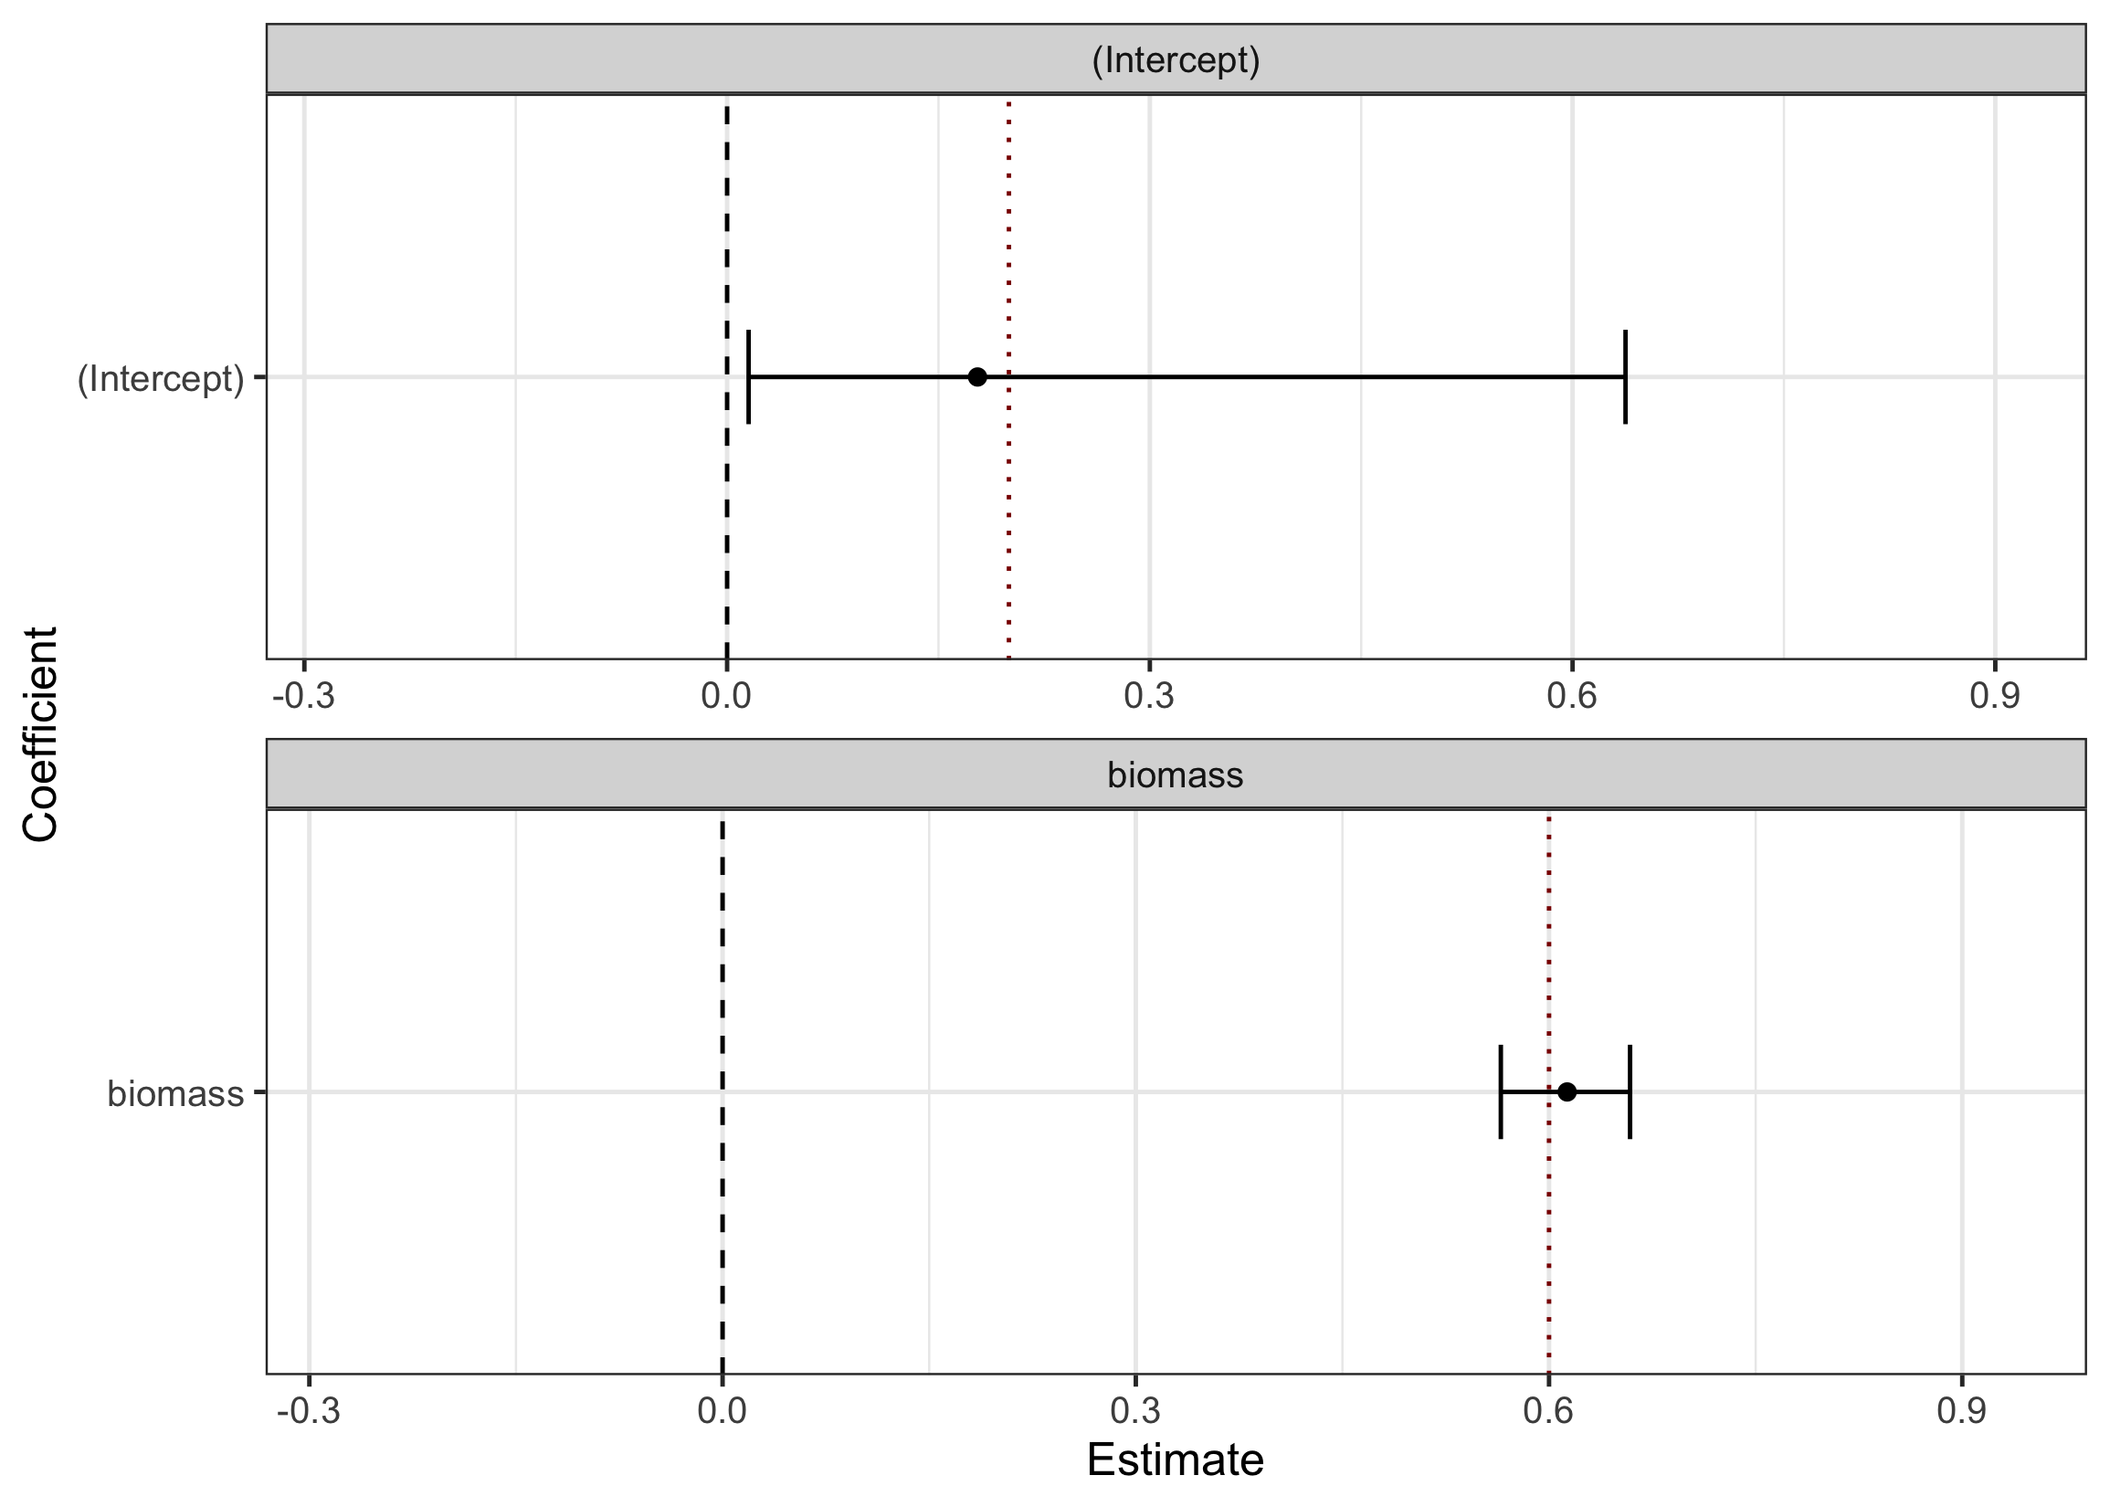
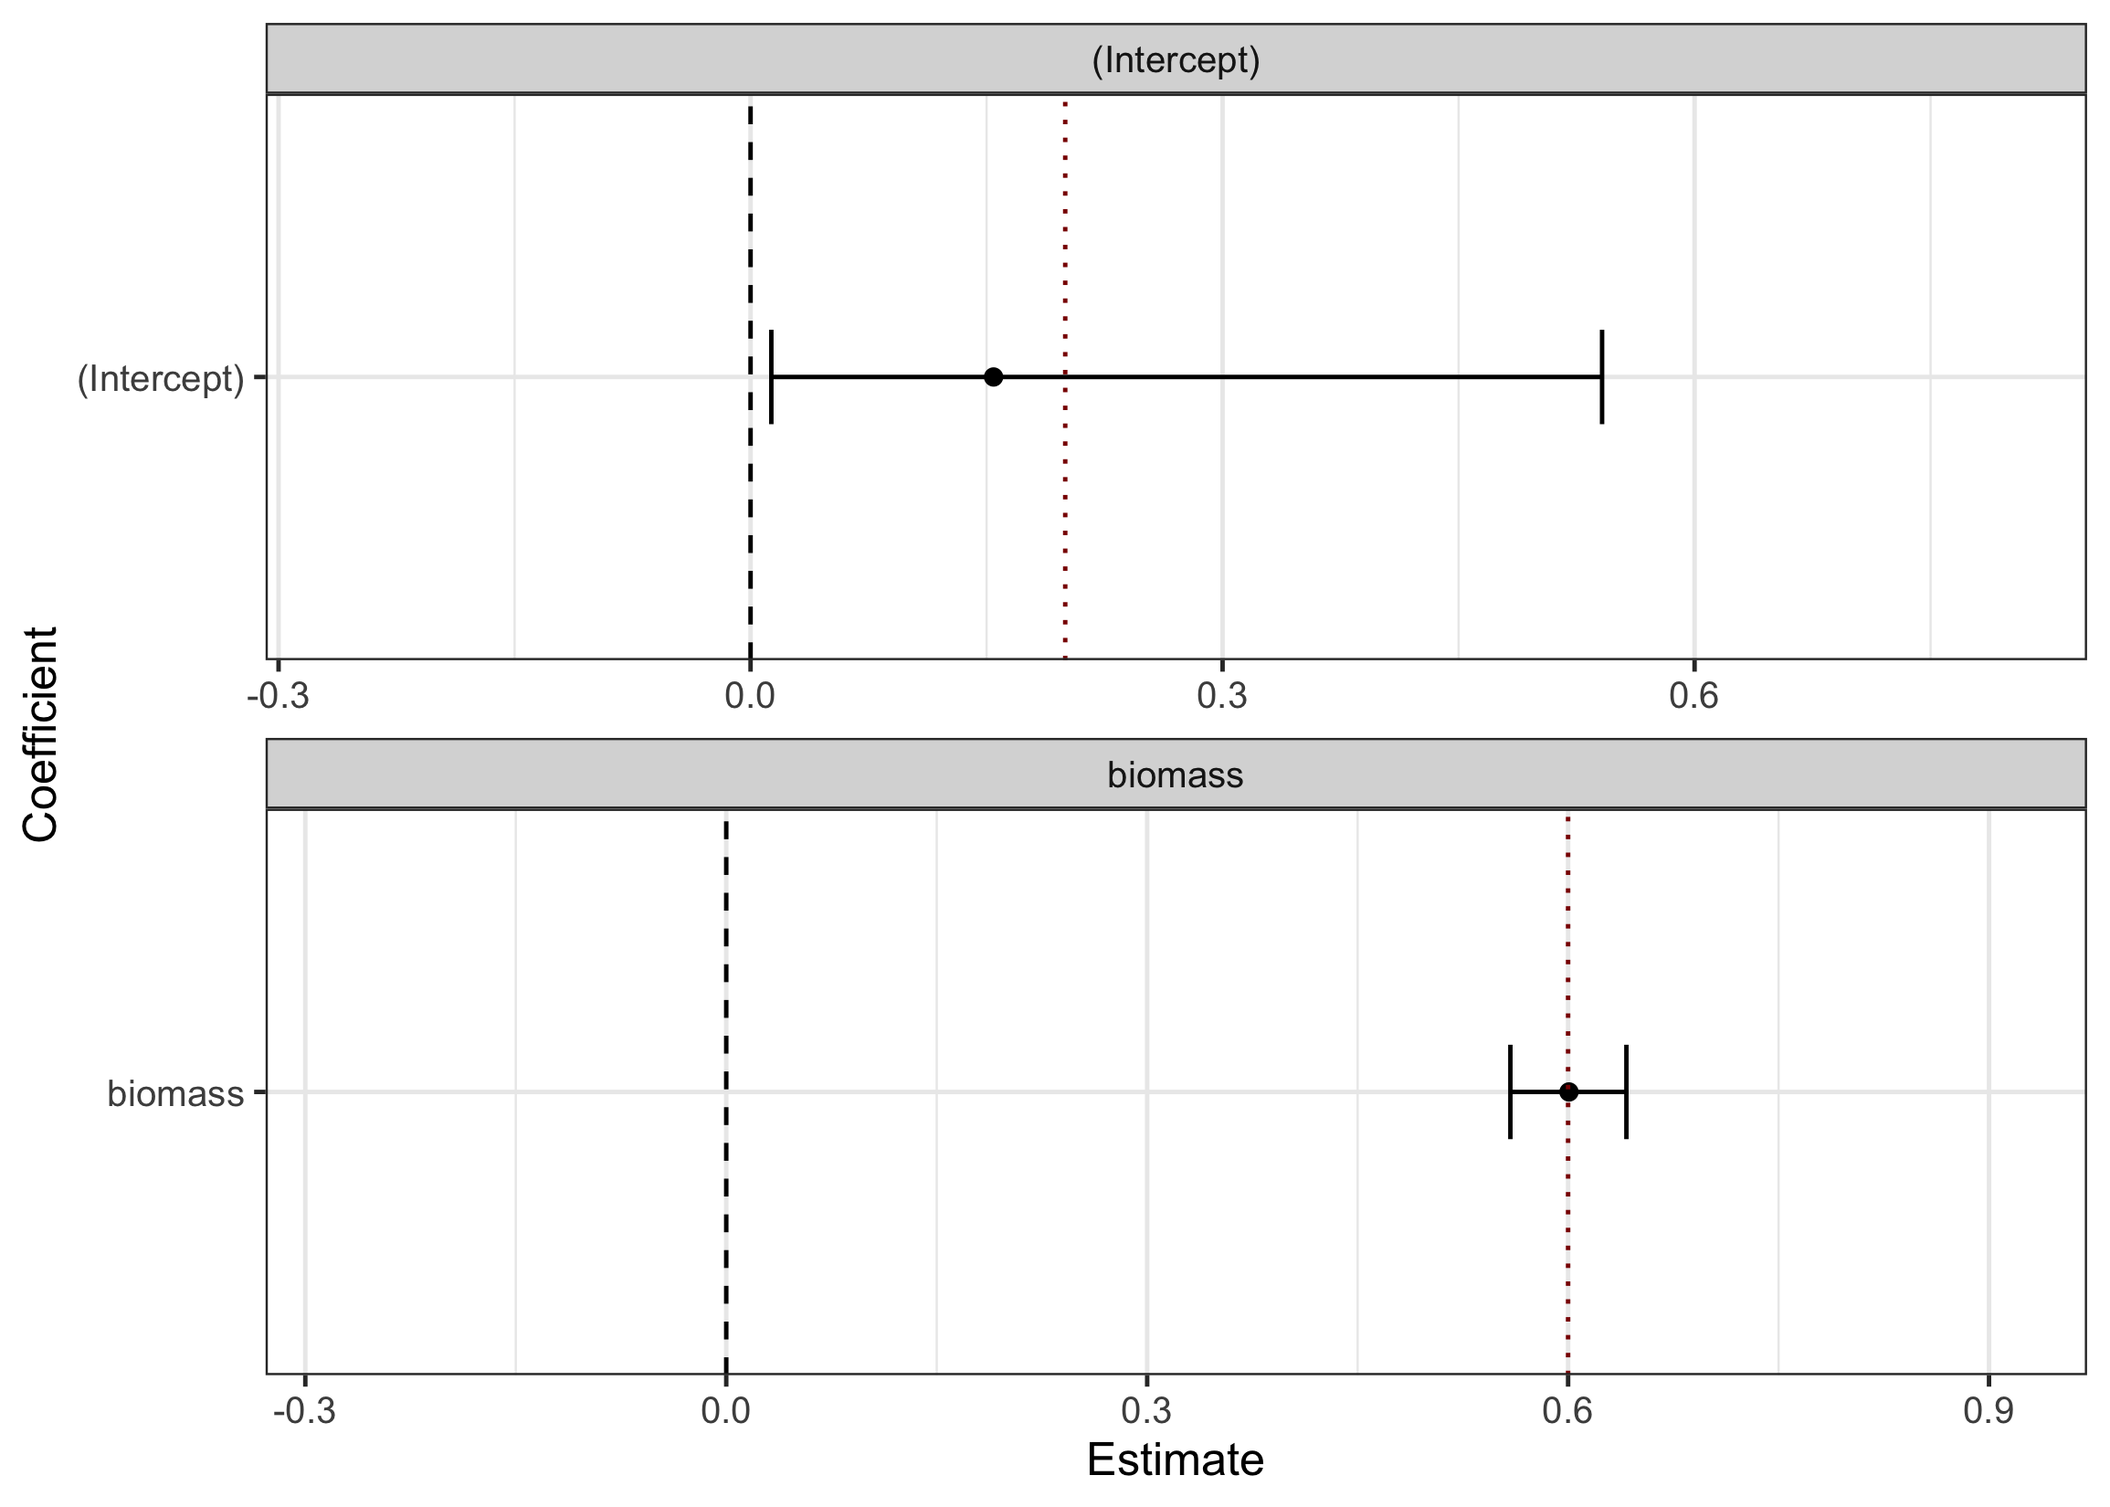
Update README

diff --git a/README.md b/README.md
@@ -108,7 +108,9 @@ simulated concentration measurements. For this, we must first define a
 model of the measurement noise. In our simulated data, we assumed a dPCR
 assay with the following parameters:
 
-- total number of partitions: 25’000
+- maximum number of partitions: 30’000
+- partition loss (invalid partitions): average: 12%, stdev: 5% points,
+  max: 50%
 - concentration conversion factor : 1.73e-5 (gc/partition for 1
   concentration unit in original sample)
 - pre-PCR coefficient of variation: 10%
@@ -119,8 +121,8 @@ characteristics using the helper function `noise_dPCR()`:
 
 ``` r
 noise_model <- noise_dPCR(
-          max_partitions_prior_lower = 10000, # partition number of chip between 10'000 and 30'000
-          max_partitions_prior_upper = 30000,
+          max_partitions_prior_lower = 10000, # partition number of chip between 10'000 and 40'000
+          max_partitions_prior_upper = 40000,
           partition_loss_mean_prior_lower = 0.05, # expected share of invalid partitions between 5% and 30%
           partition_loss_mean_prior_upper = 0.3,
           partition_loss_variation_prior_lower = 0.5, # broad prior on variation of share of invalid partitions
@@ -135,7 +137,7 @@ noise_model <- noise_dPCR(
 To summarize, we have made the following assumptions:
 
 - we don’t know what chip was used, but expect it to have between 10’000
-  and 30’000 partitions
+  and 40’000 partitions
 - the average share of invalid partitions per dPCR run could be
   somewhere between 5% and 30%
 - we don’t know how much the share of invalid partitions varies between
@@ -168,9 +170,9 @@ fitted_model <- dPCRfit(
         prior_coefficients = c(0,1), # standard normal prior for the regression coefficients
         measurements = concentration_measurements(
           id_col = "sample_id", # name of the column with the sample id
-          replicate_col = "replicate_id", # name of the column with the biological replicate id
+          replicate_col = "bio_replicate_id", # name of the column with the biological replicate id
           concentration_col = "concentration", # name of the column with the concentration measurements
-          n_averaged_col = "n_technical_reps" # name of the column with the number of technical replicates per sample
+          n_averaged_col = "n_technical_reps" # name of the column with the number of technical replicates per biological replicate
         ),
         noise = noise_model, # the dPCR noise model we defined above
         nondetect = nondetect_dPCR() # also model non-detects from dPCR
@@ -182,58 +184,58 @@ fitted_model <- dPCRfit(
 #> Chain 2 Iteration:    1 / 2000 [  0%]  (Warmup) 
 #> Chain 3 Iteration:    1 / 2000 [  0%]  (Warmup) 
 #> Chain 4 Iteration:    1 / 2000 [  0%]  (Warmup) 
-#> Chain 4 Iteration:  200 / 2000 [ 10%]  (Warmup) 
-#> Chain 2 Iteration:  200 / 2000 [ 10%]  (Warmup) 
 #> Chain 3 Iteration:  200 / 2000 [ 10%]  (Warmup) 
-#> Chain 1 Iteration:  200 / 2000 [ 10%]  (Warmup) 
-#> Chain 4 Iteration:  400 / 2000 [ 20%]  (Warmup) 
-#> Chain 2 Iteration:  400 / 2000 [ 20%]  (Warmup) 
+#> Chain 2 Iteration:  200 / 2000 [ 10%]  (Warmup) 
+#> Chain 4 Iteration:  200 / 2000 [ 10%]  (Warmup) 
 #> Chain 3 Iteration:  400 / 2000 [ 20%]  (Warmup) 
+#> Chain 1 Iteration:  200 / 2000 [ 10%]  (Warmup) 
+#> Chain 2 Iteration:  400 / 2000 [ 20%]  (Warmup) 
 #> Chain 1 Iteration:  400 / 2000 [ 20%]  (Warmup) 
-#> Chain 2 Iteration:  600 / 2000 [ 30%]  (Warmup) 
-#> Chain 4 Iteration:  600 / 2000 [ 30%]  (Warmup) 
-#> Chain 1 Iteration:  600 / 2000 [ 30%]  (Warmup) 
 #> Chain 3 Iteration:  600 / 2000 [ 30%]  (Warmup) 
-#> Chain 2 Iteration:  800 / 2000 [ 40%]  (Warmup) 
-#> Chain 1 Iteration:  800 / 2000 [ 40%]  (Warmup) 
-#> Chain 4 Iteration:  800 / 2000 [ 40%]  (Warmup) 
+#> Chain 4 Iteration:  400 / 2000 [ 20%]  (Warmup) 
+#> Chain 2 Iteration:  600 / 2000 [ 30%]  (Warmup) 
+#> Chain 1 Iteration:  600 / 2000 [ 30%]  (Warmup) 
 #> Chain 3 Iteration:  800 / 2000 [ 40%]  (Warmup) 
+#> Chain 1 Iteration:  800 / 2000 [ 40%]  (Warmup) 
+#> Chain 2 Iteration:  800 / 2000 [ 40%]  (Warmup) 
+#> Chain 4 Iteration:  600 / 2000 [ 30%]  (Warmup) 
+#> Chain 4 Iteration:  800 / 2000 [ 40%]  (Warmup) 
+#> Chain 3 Iteration: 1000 / 2000 [ 50%]  (Warmup) 
+#> Chain 3 Iteration: 1001 / 2000 [ 50%]  (Sampling) 
 #> Chain 1 Iteration: 1000 / 2000 [ 50%]  (Warmup) 
 #> Chain 1 Iteration: 1001 / 2000 [ 50%]  (Sampling) 
 #> Chain 2 Iteration: 1000 / 2000 [ 50%]  (Warmup) 
 #> Chain 2 Iteration: 1001 / 2000 [ 50%]  (Sampling) 
+#> Chain 3 Iteration: 1200 / 2000 [ 60%]  (Sampling) 
 #> Chain 4 Iteration: 1000 / 2000 [ 50%]  (Warmup) 
 #> Chain 4 Iteration: 1001 / 2000 [ 50%]  (Sampling) 
-#> Chain 3 Iteration: 1000 / 2000 [ 50%]  (Warmup) 
-#> Chain 3 Iteration: 1001 / 2000 [ 50%]  (Sampling) 
 #> Chain 1 Iteration: 1200 / 2000 [ 60%]  (Sampling) 
-#> Chain 2 Iteration: 1200 / 2000 [ 60%]  (Sampling) 
-#> Chain 4 Iteration: 1200 / 2000 [ 60%]  (Sampling) 
-#> Chain 3 Iteration: 1200 / 2000 [ 60%]  (Sampling) 
-#> Chain 1 Iteration: 1400 / 2000 [ 70%]  (Sampling) 
-#> Chain 2 Iteration: 1400 / 2000 [ 70%]  (Sampling) 
-#> Chain 4 Iteration: 1400 / 2000 [ 70%]  (Sampling) 
 #> Chain 3 Iteration: 1400 / 2000 [ 70%]  (Sampling) 
-#> Chain 1 Iteration: 1600 / 2000 [ 80%]  (Sampling) 
-#> Chain 2 Iteration: 1600 / 2000 [ 80%]  (Sampling) 
-#> Chain 4 Iteration: 1600 / 2000 [ 80%]  (Sampling) 
+#> Chain 4 Iteration: 1200 / 2000 [ 60%]  (Sampling) 
+#> Chain 1 Iteration: 1400 / 2000 [ 70%]  (Sampling) 
+#> Chain 2 Iteration: 1200 / 2000 [ 60%]  (Sampling) 
 #> Chain 3 Iteration: 1600 / 2000 [ 80%]  (Sampling) 
-#> Chain 1 Iteration: 1800 / 2000 [ 90%]  (Sampling) 
-#> Chain 2 Iteration: 1800 / 2000 [ 90%]  (Sampling) 
-#> Chain 4 Iteration: 1800 / 2000 [ 90%]  (Sampling) 
+#> Chain 4 Iteration: 1400 / 2000 [ 70%]  (Sampling) 
+#> Chain 1 Iteration: 1600 / 2000 [ 80%]  (Sampling) 
 #> Chain 3 Iteration: 1800 / 2000 [ 90%]  (Sampling) 
-#> Chain 1 Iteration: 2000 / 2000 [100%]  (Sampling) 
-#> Chain 2 Iteration: 2000 / 2000 [100%]  (Sampling) 
-#> Chain 1 finished in 14.9 seconds.
-#> Chain 2 finished in 14.9 seconds.
-#> Chain 4 Iteration: 2000 / 2000 [100%]  (Sampling) 
-#> Chain 4 finished in 15.3 seconds.
+#> Chain 4 Iteration: 1600 / 2000 [ 80%]  (Sampling) 
+#> Chain 1 Iteration: 1800 / 2000 [ 90%]  (Sampling) 
+#> Chain 2 Iteration: 1400 / 2000 [ 70%]  (Sampling) 
 #> Chain 3 Iteration: 2000 / 2000 [100%]  (Sampling) 
-#> Chain 3 finished in 15.7 seconds.
+#> Chain 3 finished in 32.5 seconds.
+#> Chain 4 Iteration: 1800 / 2000 [ 90%]  (Sampling) 
+#> Chain 1 Iteration: 2000 / 2000 [100%]  (Sampling) 
+#> Chain 1 finished in 33.1 seconds.
+#> Chain 4 Iteration: 2000 / 2000 [100%]  (Sampling) 
+#> Chain 4 finished in 34.2 seconds.
+#> Chain 2 Iteration: 1600 / 2000 [ 80%]  (Sampling) 
+#> Chain 2 Iteration: 1800 / 2000 [ 90%]  (Sampling) 
+#> Chain 2 Iteration: 2000 / 2000 [100%]  (Sampling) 
+#> Chain 2 finished in 40.0 seconds.
 #> 
 #> All 4 chains finished successfully.
-#> Mean chain execution time: 15.2 seconds.
-#> Total execution time: 15.9 seconds.
+#> Mean chain execution time: 35.0 seconds.
+#> Total execution time: 40.5 seconds.
 ```
 
 ## Results
@@ -248,9 +250,9 @@ summary(fitted_model)
 #> Number of observations: 100 
 #> 
 #> Coefficients:
-#> variable     mean    median  sd       mad      q5       q95     rhat    ess_bulk  ess_tail
-#> (Intercept)  0.2340  0.1777  0.20197  0.17050  0.01527  0.6376  0.9999  3137      1590    
-#> biomass      0.6127  0.6132  0.02885  0.02868  0.56501  0.6588  1.0002  5418      2835    
+#> variable     mean    median  sd       mad     q5      q95     rhat    ess_bulk  ess_tail
+#> (Intercept)  0.1989  0.1545  0.17121  0.1475  0.0132  0.5412  0.9996  3127      1929    
+#> biomass      0.6003  0.6006  0.02537  0.0249  0.5589  0.6416  1.0009  6383      3046    
 #> 
 #> Fitted via MCMC using 4 chains with each:
 #> 1000 warm-up iterations
@@ -298,6 +300,158 @@ ggplot(fitted_model$coef_summary) +
 that the intercept was estimated with large uncertainty, due to the
 increased noise at low concentrations. In contrast, the slope of the
 linear relationship with biomass was estimated quite precisely.
+
+## Fitting to positive partition counts
+
+If we have data on the number of positive and total partitions from the
+dPCR (as we do in our simulated data), we can also fit a binomial
+regression model instead. For this, we again specify a noise model using
+`noise_dPCR`, but we don’t need prior assumptions for the number of
+total partitions this time (as we have observed them). However, we still
+need to specify the concentration conversion factor (gc/partition for 1
+concentration unit in original sample):
+
+``` r
+noise_model2 <- noise_dPCR(
+          partitions_observe = TRUE, # we have observed the number of total partitions (they are in our dPCR_data)
+          volume_scaled_prior_mu = 1.73e-5, # this time, we fix the conversion factor to the true value
+          volume_scaled_prior_sigma = 0,
+          prePCR_noise_type = "lognormal" # we assume that pre-PCR noise is log-normally distributed
+        )
+```
+
+Note: As it turns out, when using the binomial model, it is actually
+**more** important to provide an informative prior for the conversion
+factor. This is why we set `volume_scaled_prior` to the true value in
+our example above. If we used a broader prior for the conversion factor,
+the model would struggle to precisely estimate the coefficients of our
+linear regression.
+
+Now we can fit a binomial regression model to the positive partitions
+using the `dPCRfit()` function. The only difference to fitting to
+concentration measurements is that we now use the
+`positive_partitions()` function to specify our measurements. We also
+specify the names of the columns containing the number of positive and
+total partitions. Specifically, these are the averages over technical
+replicates, respectively.
+
+``` r
+fitted_model_binomial <- dPCRfit(
+        formula = avg_positive_partitions ~ biomass, # linear regression formula
+        data = dPCR_data, # our data
+        prior_intercept = c(0,1), # standard normal prior for the intercept
+        prior_coefficients = c(0,1), # standard normal prior for the regression coefficients
+        measurements = positive_partitions(
+          id_col = "sample_id", # name of the column with the sample id
+          replicate_col = "bio_replicate_id", # name of the column with the biological replicate id
+          positive_partitions_col = "avg_positive_partitions", # name of the column with the avg number of positive partitions per replicate
+          total_partitions_col = "avg_total_partitions", # name of the column with the avg number of total partitions per replicate
+          n_averaged_col = "n_technical_reps" # name of the column with the number of technical replicates per biological replicate
+        ),
+        noise = noise_model2, # the dPCR noise model
+        nondetect = nondetect_dPCR() # also model non-detects from dPCR
+      )
+#> Initializing chains via pathfinder...
+#> Running MCMC with 4 parallel chains...
+#> 
+#> Chain 1 Iteration:    1 / 2000 [  0%]  (Warmup) 
+#> Chain 2 Iteration:    1 / 2000 [  0%]  (Warmup) 
+#> Chain 3 Iteration:    1 / 2000 [  0%]  (Warmup) 
+#> Chain 4 Iteration:    1 / 2000 [  0%]  (Warmup) 
+#> Chain 1 Iteration:  200 / 2000 [ 10%]  (Warmup) 
+#> Chain 3 Iteration:  200 / 2000 [ 10%]  (Warmup) 
+#> Chain 1 Iteration:  400 / 2000 [ 20%]  (Warmup) 
+#> Chain 4 Iteration:  200 / 2000 [ 10%]  (Warmup) 
+#> Chain 1 Iteration:  600 / 2000 [ 30%]  (Warmup) 
+#> Chain 2 Iteration:  200 / 2000 [ 10%]  (Warmup) 
+#> Chain 3 Iteration:  400 / 2000 [ 20%]  (Warmup) 
+#> Chain 4 Iteration:  400 / 2000 [ 20%]  (Warmup) 
+#> Chain 1 Iteration:  800 / 2000 [ 40%]  (Warmup) 
+#> Chain 2 Iteration:  400 / 2000 [ 20%]  (Warmup) 
+#> Chain 3 Iteration:  600 / 2000 [ 30%]  (Warmup) 
+#> Chain 4 Iteration:  600 / 2000 [ 30%]  (Warmup) 
+#> Chain 1 Iteration: 1000 / 2000 [ 50%]  (Warmup) 
+#> Chain 1 Iteration: 1001 / 2000 [ 50%]  (Sampling) 
+#> Chain 3 Iteration:  800 / 2000 [ 40%]  (Warmup) 
+#> Chain 4 Iteration:  800 / 2000 [ 40%]  (Warmup) 
+#> Chain 2 Iteration:  600 / 2000 [ 30%]  (Warmup) 
+#> Chain 3 Iteration: 1000 / 2000 [ 50%]  (Warmup) 
+#> Chain 3 Iteration: 1001 / 2000 [ 50%]  (Sampling) 
+#> Chain 4 Iteration: 1000 / 2000 [ 50%]  (Warmup) 
+#> Chain 4 Iteration: 1001 / 2000 [ 50%]  (Sampling) 
+#> Chain 1 Iteration: 1200 / 2000 [ 60%]  (Sampling) 
+#> Chain 2 Iteration:  800 / 2000 [ 40%]  (Warmup) 
+#> Chain 4 Iteration: 1200 / 2000 [ 60%]  (Sampling) 
+#> Chain 1 Iteration: 1400 / 2000 [ 70%]  (Sampling) 
+#> Chain 2 Iteration: 1000 / 2000 [ 50%]  (Warmup) 
+#> Chain 2 Iteration: 1001 / 2000 [ 50%]  (Sampling) 
+#> Chain 3 Iteration: 1200 / 2000 [ 60%]  (Sampling) 
+#> Chain 4 Iteration: 1400 / 2000 [ 70%]  (Sampling) 
+#> Chain 1 Iteration: 1600 / 2000 [ 80%]  (Sampling) 
+#> Chain 2 Iteration: 1200 / 2000 [ 60%]  (Sampling) 
+#> Chain 4 Iteration: 1600 / 2000 [ 80%]  (Sampling) 
+#> Chain 3 Iteration: 1400 / 2000 [ 70%]  (Sampling) 
+#> Chain 4 Iteration: 1800 / 2000 [ 90%]  (Sampling) 
+#> Chain 1 Iteration: 1800 / 2000 [ 90%]  (Sampling) 
+#> Chain 4 Iteration: 2000 / 2000 [100%]  (Sampling) 
+#> Chain 4 finished in 2.9 seconds.
+#> Chain 2 Iteration: 1400 / 2000 [ 70%]  (Sampling) 
+#> Chain 3 Iteration: 1600 / 2000 [ 80%]  (Sampling) 
+#> Chain 1 Iteration: 2000 / 2000 [100%]  (Sampling) 
+#> Chain 1 finished in 3.2 seconds.
+#> Chain 2 Iteration: 1600 / 2000 [ 80%]  (Sampling) 
+#> Chain 3 Iteration: 1800 / 2000 [ 90%]  (Sampling) 
+#> Chain 2 Iteration: 1800 / 2000 [ 90%]  (Sampling) 
+#> Chain 3 Iteration: 2000 / 2000 [100%]  (Sampling) 
+#> Chain 3 finished in 3.6 seconds.
+#> Chain 2 Iteration: 2000 / 2000 [100%]  (Sampling) 
+#> Chain 2 finished in 3.8 seconds.
+#> 
+#> All 4 chains finished successfully.
+#> Mean chain execution time: 3.4 seconds.
+#> Total execution time: 4.1 seconds.
+```
+
+We obtain a very similar result as when fitting to concentration
+measurements:
+
+``` r
+summary(fitted_model_binomial)
+#> Call:
+#> dPCRfit(formula = avg_positive_partitions ~ biomass, link = identity)
+#> 
+#> Number of observations: 100 
+#> 
+#> Coefficients:
+#> variable     mean    median  sd       mad      q5        q95     rhat   ess_bulk  ess_tail
+#> (Intercept)  0.1462  0.1039  0.13675  0.10520  0.007943  0.4233  1.001  3118      1933    
+#> biomass      0.5681  0.5679  0.02338  0.02318  0.530470  0.6067  1.001  5325      3179    
+#> 
+#> Fitted via MCMC using 4 chains with each:
+#> 1000 warm-up iterations
+#> 1000 sampling iterations
+#> 
+#> Diagnostics:
+#> No problems detected.
+```
+
+``` r
+model_prediction <- predict(
+  fitted_model_binomial,
+  newdata = data.frame(biomass = seq(0,30)),
+  interval = "confidence",
+  keep_data = TRUE
+  )
+
+ggplot(dPCR_data, aes(x=biomass)) +
+  geom_point(aes(y=concentration)) +
+  geom_line(data = model_prediction, aes(x = biomass, y = mean), color = "blue") +
+  geom_ribbon(data = model_prediction, aes(x = biomass, ymin = q5, ymax = q95), fill = "blue", alpha = 0.3) +
+  xlab("Biomass (mg)") + ylab("Target gene concentration [gc/mL]") +
+  theme_bw()
+```
+
+<img src="man/figures/README-model_fit_plot_binomial-1.png" width="100%" />
 
 ## Citing the package
 
